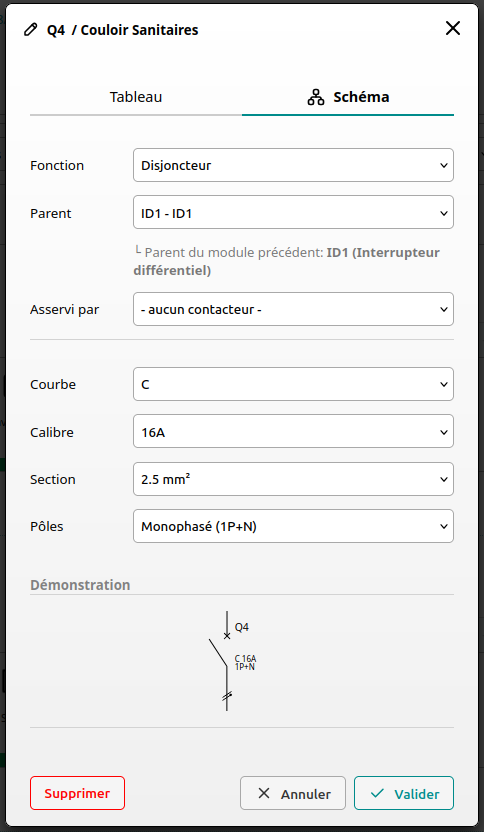
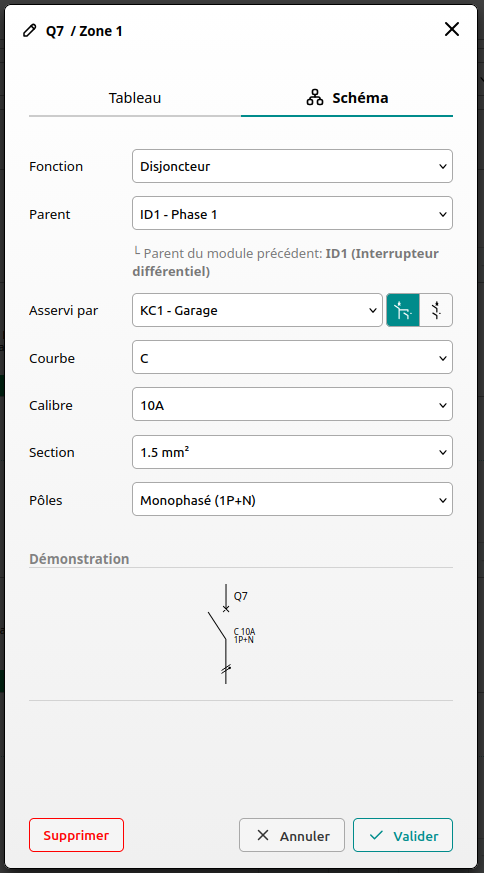
Documentation update

diff --git a/README.md b/README.md
@@ -330,6 +330,35 @@ Les autres informations sont dynamiquement adaptées à la fonction choisie pré
 La zone de démonstration affiche la représentation graphique (Symbole) et les caractéristiques techniques telles
 qu'elles seront incluses dans le schéma unifilaire global.
 
+#### L'asservissement
+
+Les propriétés d'un module propose de définir par quel contacteur un module peut être asservi.
+
+Prenons un exemple concret:
+
+Je souhaite alimenter une ampoule qui devra être commandée par un télérupteur. Donc nous allons ajouter un module de type disjoncteur 2A pour protéger la bobine du télérupteur, un disjoncteur 10A pour protéger le circuit d'éclairage qui sera piloté par les contacts du télérupteur, et le télérupteur, lui même.
+
+Voici un schéma résumé:
+
+![Asservissement simple](./docs/_schema_asserv_simple.png?raw=true)
+
+Le disjoncteur Q1 protège la bobine du télérupteur KC1. Le disjoncteur Q2 protège l'éclairage couloir, le télérupteur KC1 asservi le disjoncteur Q2.
+
+![Asservissement simple - Propriétés](./docs/_props_asserv_simple.png?raw=true)
+
+Vous remarquerez le choix du type d'asservissement. Dans notre exemple, le disjoncteur Q2 ne protège que le circuit 'Eclairage couloir', donc c'est un asservissement total.
+
+Autre exemple. Nous souhaitons que le disjoncteur Q2 protège aussi le circuit d'éclairage Salon.
+
+![Asservissement double](./docs/_schema_asserv_double.png?raw=true)
+
+Pour ce faire, dans les propriétés du disjoncteur Q2, nous remplaçons le libellé 'Couloir' par 'Salon' puis dans les propriétés du schéma, nous indiquons un asservissement partiel.
+
+![Asservissement double - Propriétés](./docs/_props_asserv_double.png?raw=true)
+
+Et voila! La magie de Tiquettes.fr à encore opérée. :-)
+
+
 ### Génération du schéma unifilaire
 
 La génération dépend à 100% des données que vous aurez renseignées lors de l'édition d'un module.
@@ -378,7 +407,7 @@ désactiver cette surveillance à tout moment.
 Le moniteur surveillera l'application des règles suivantes (NFC 15-100 09/2024) :
 
 - ```Étiquettes```: Le respect du minimum de 20% d'espace libre dans l'enveloppe du tableau.
-- ```Schéma```: Le nombre de circuits associés à un interrupteur différentiel : 8.
+- ```Schéma```: Le nombre de circuits associés à un interrupteur différentiel : 8 (sauf pour le tertiaire).
 - ```Schéma```: Le nombre minimum d'interrupteurs différentiels : 2.
 - ```Schéma```: Le type de protection différentielle parente pour les circuits Plaque de cuisson, Chauffages et
   Bornes/Prises de recharge : Type A.
